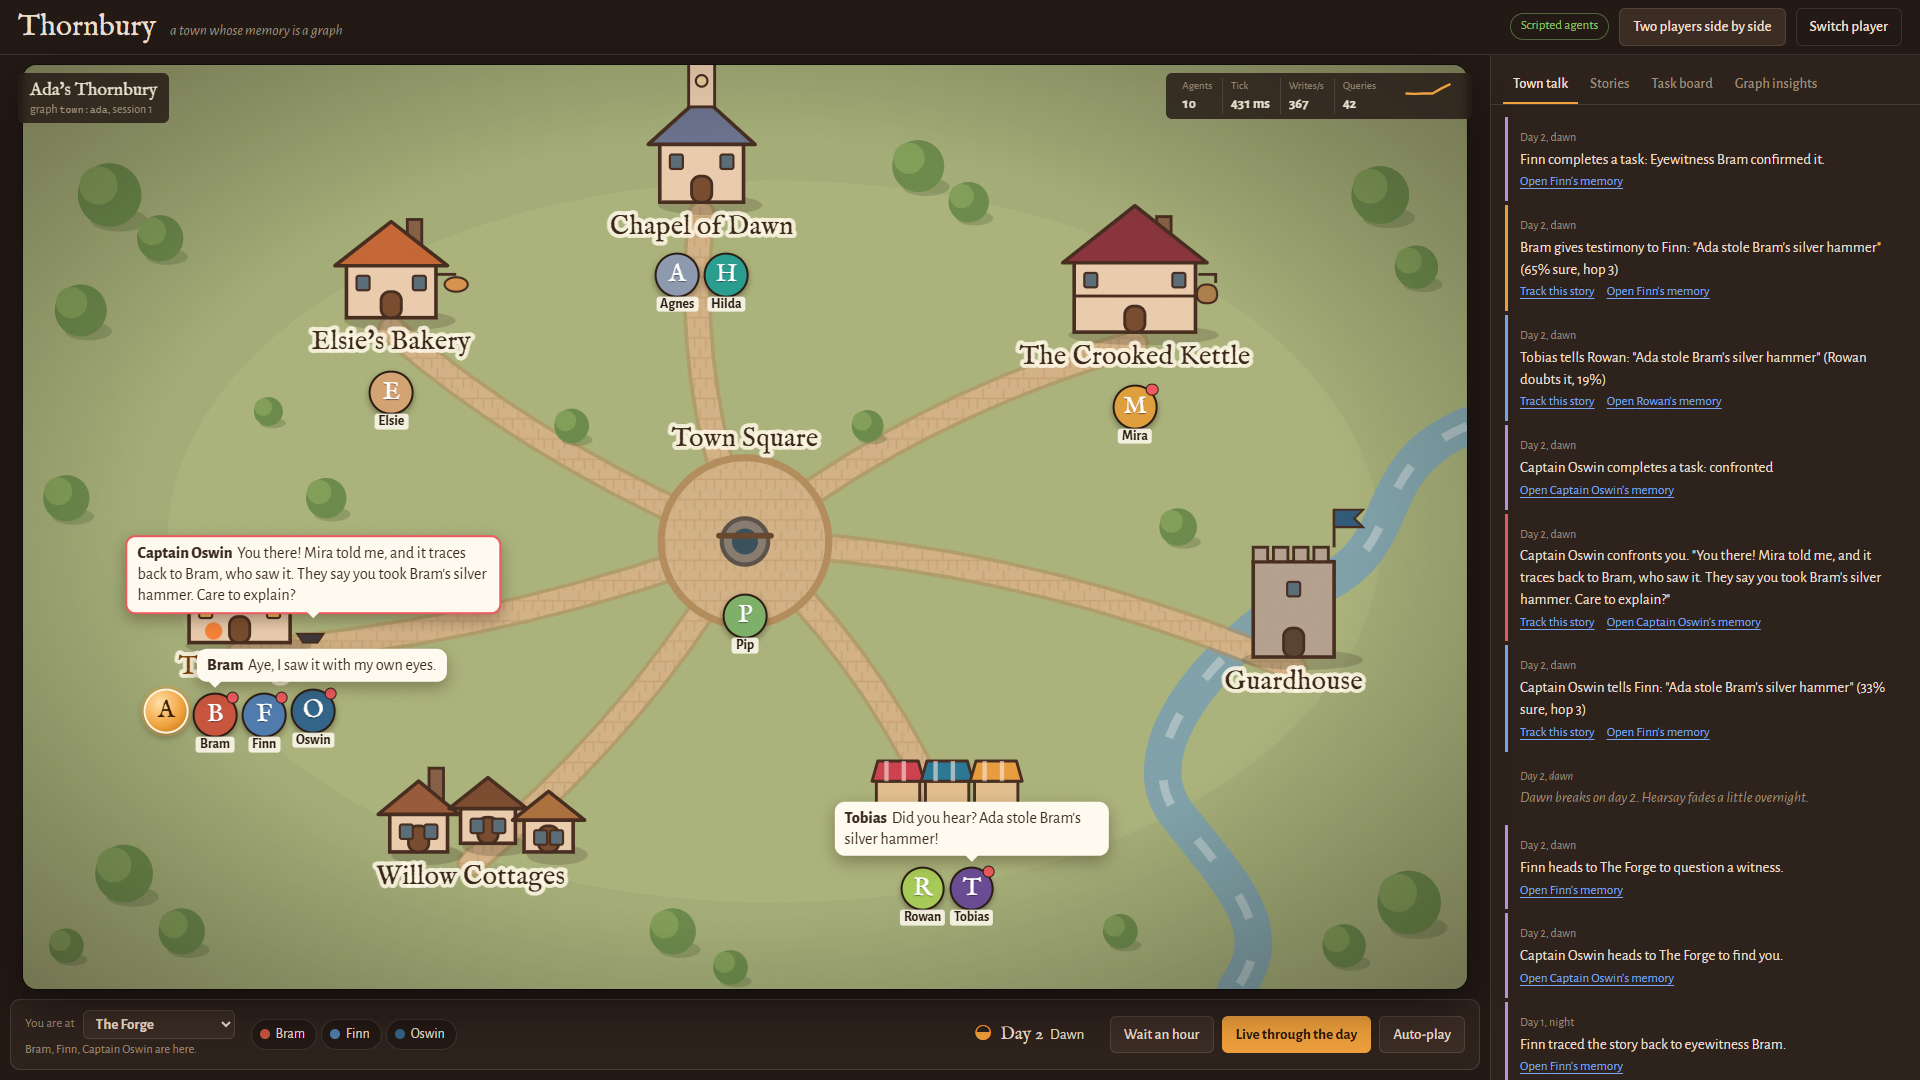
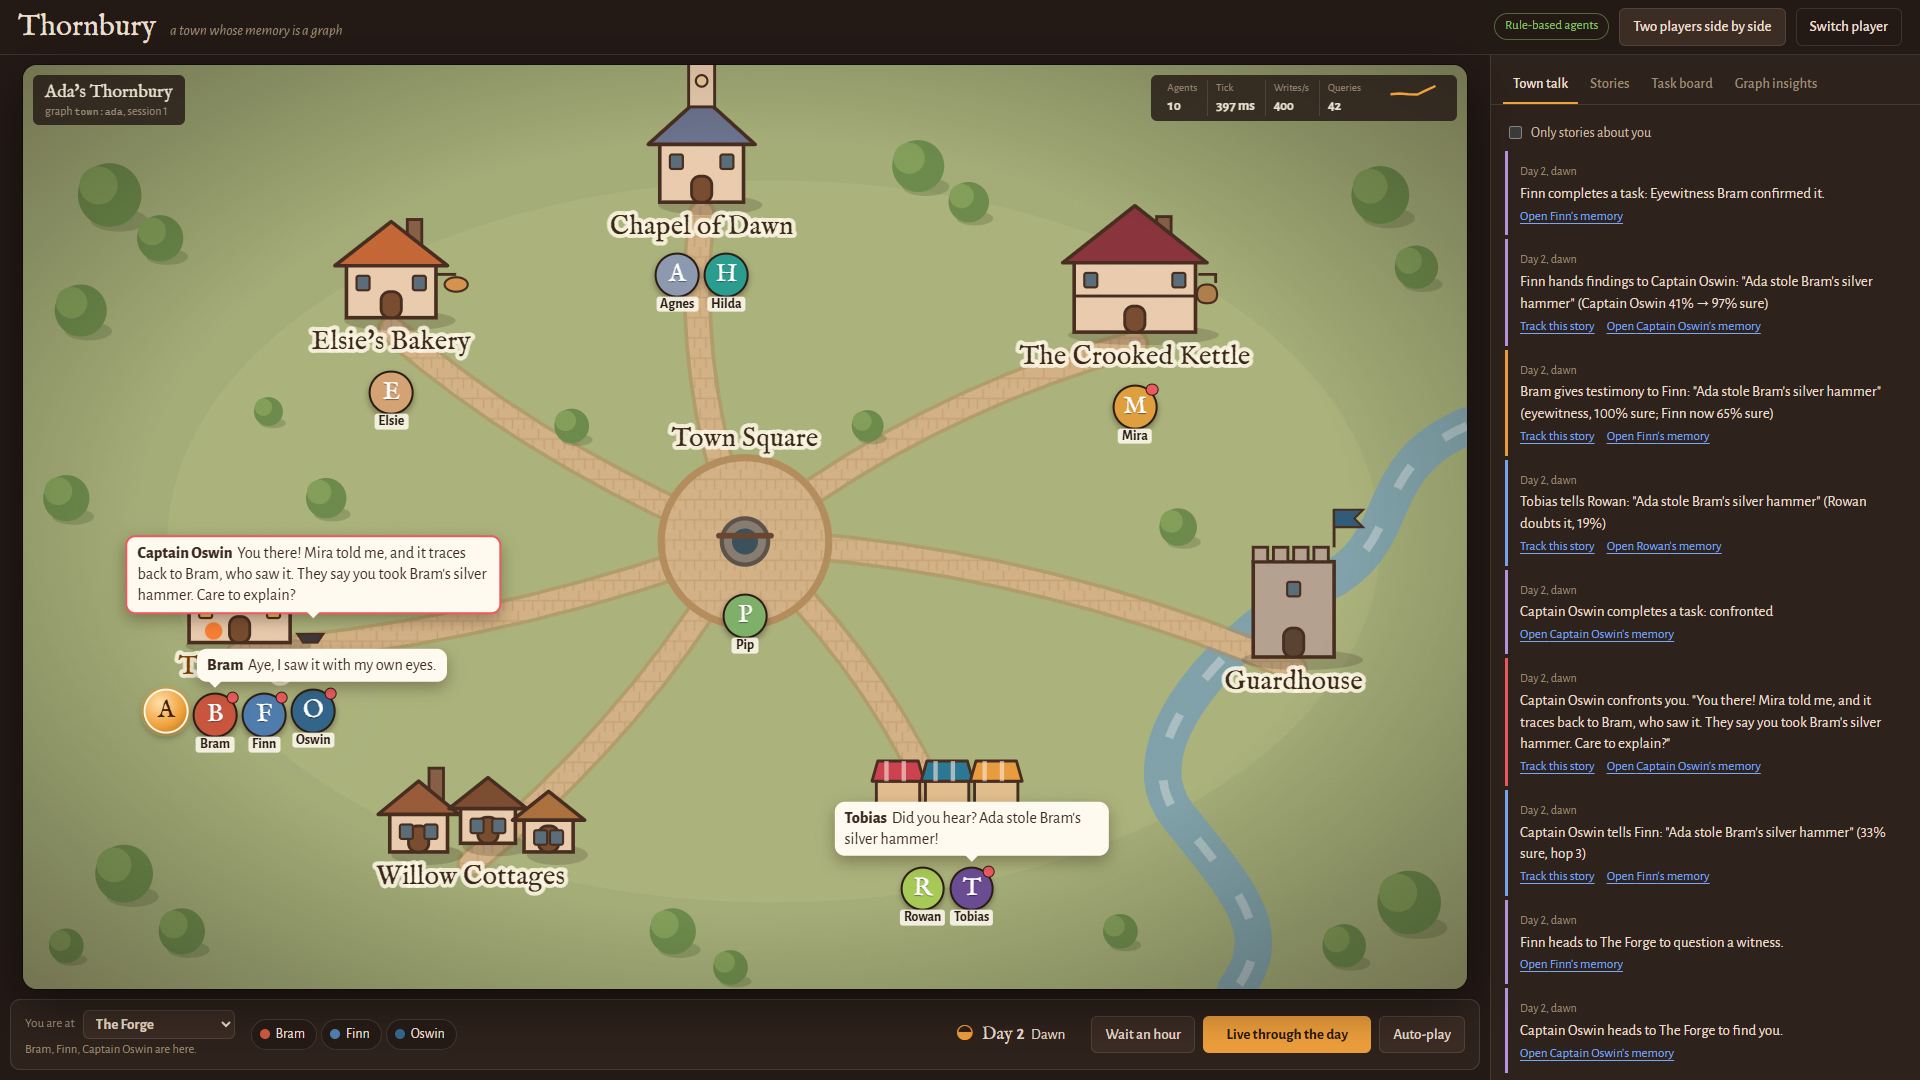
docs: fresh screenshots of the current UI; trim the README header

diff --git a/README.md b/README.md
@@ -7,8 +7,6 @@
 Built for **Graph Hacks: Context for AI Agents** (WeMakeDevs x FalkorDB).
 **Tracks:** Agent Memory and Coordination (primary) · Agents That Act on Connected Data.
 
-> The live demo runs on free tiers (Render + FalkorDB Cloud) and pings itself to stay awake. If it was idle anyway, the first load can take about a minute.
-
 ![Captain Oswin explains how he knows: the provenance thread runs from the theft through Bram and Mira to him, drawn across the map, with his memory graph on the right](docs/media/provenance.png)
 
 ## The 30-second version
